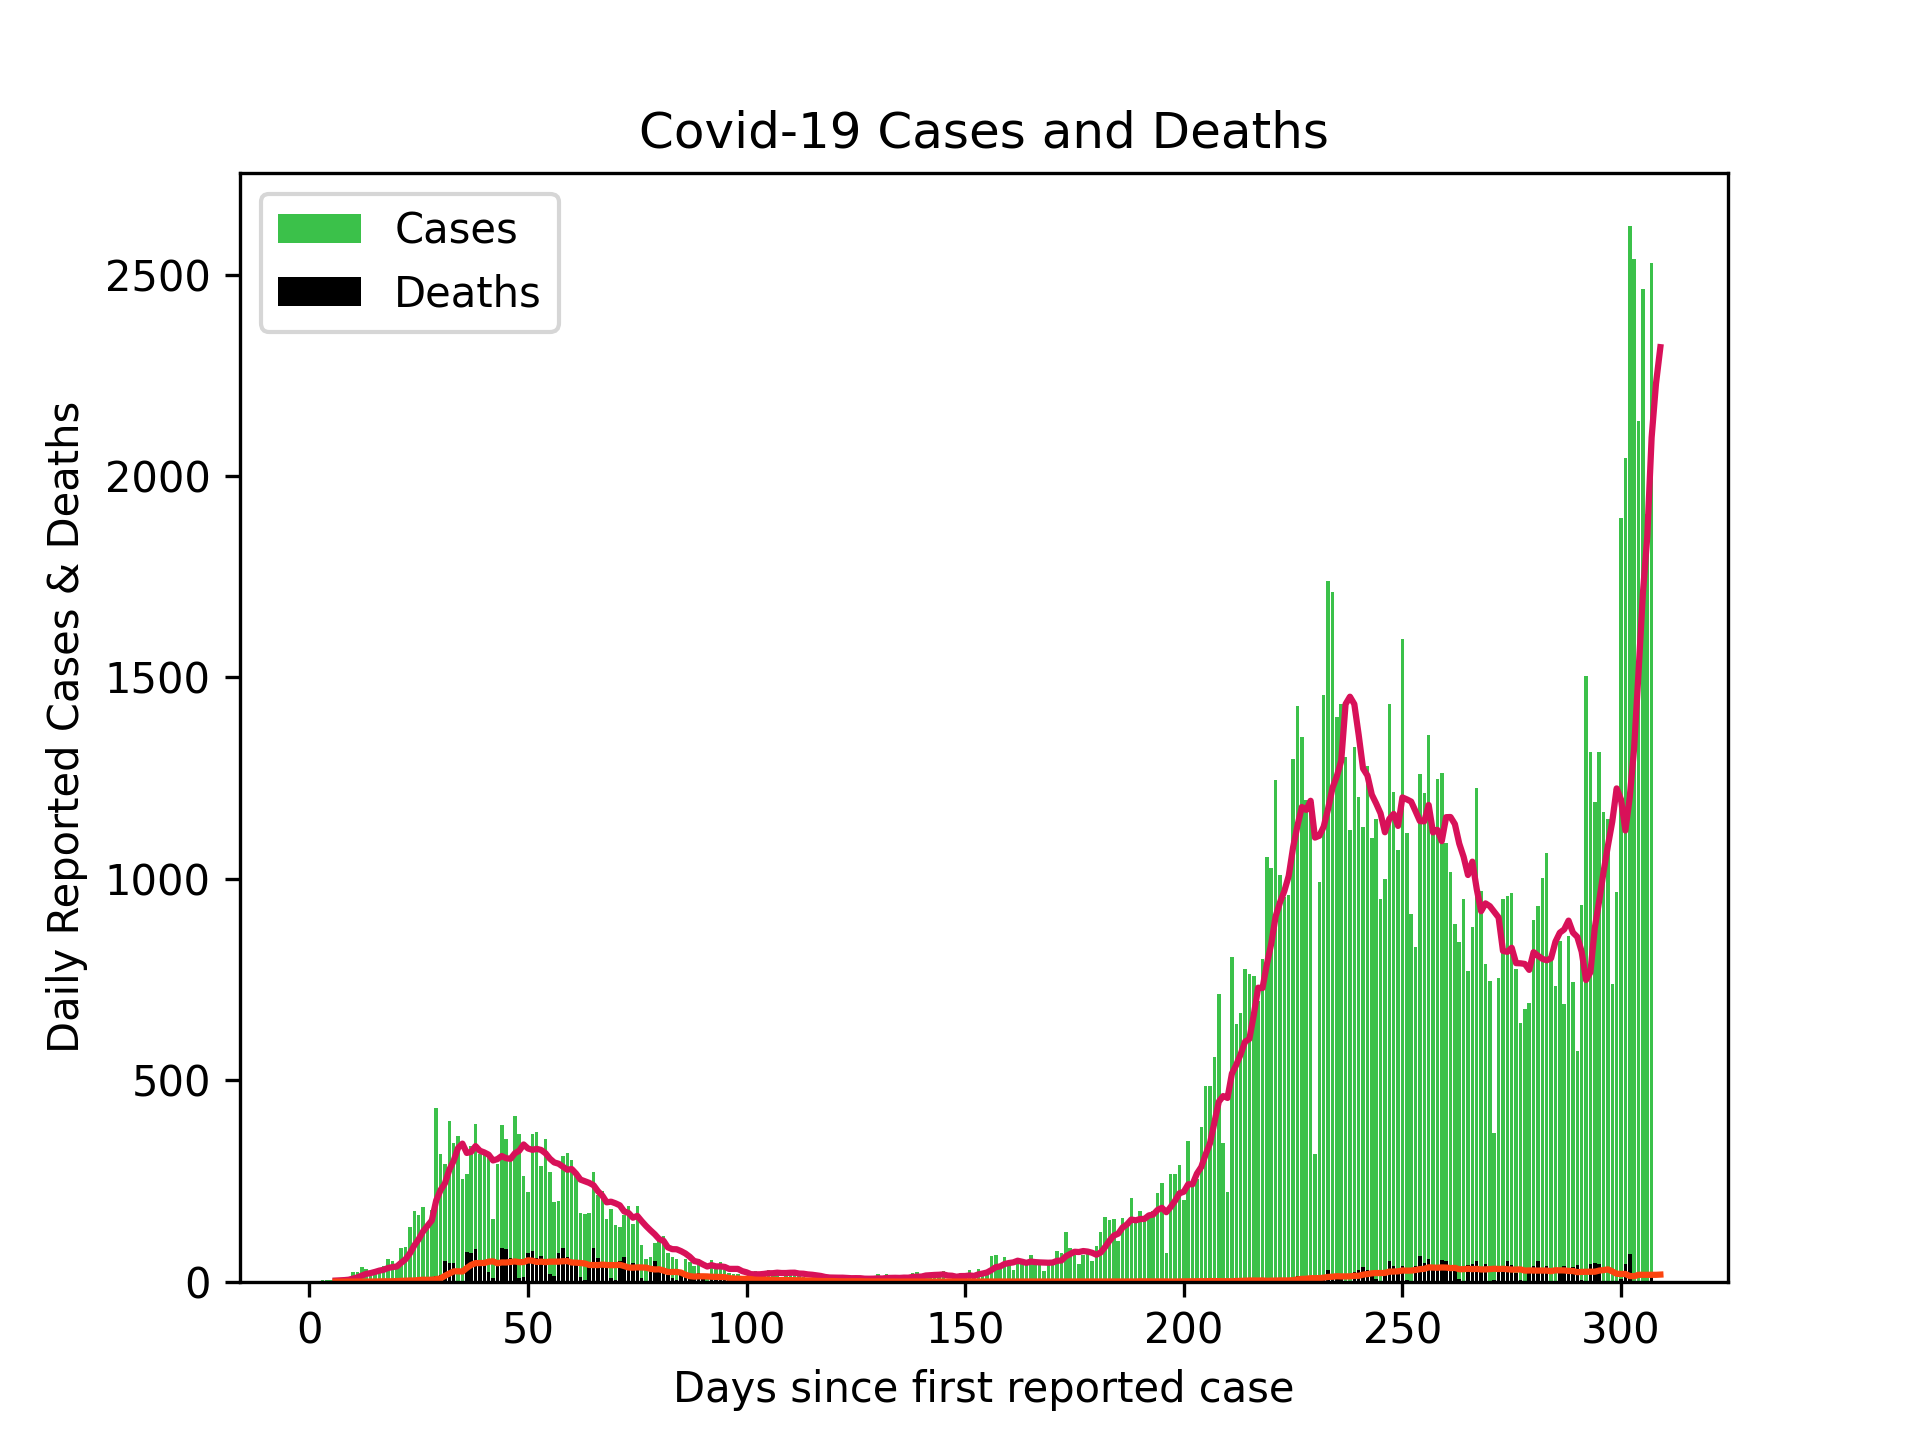
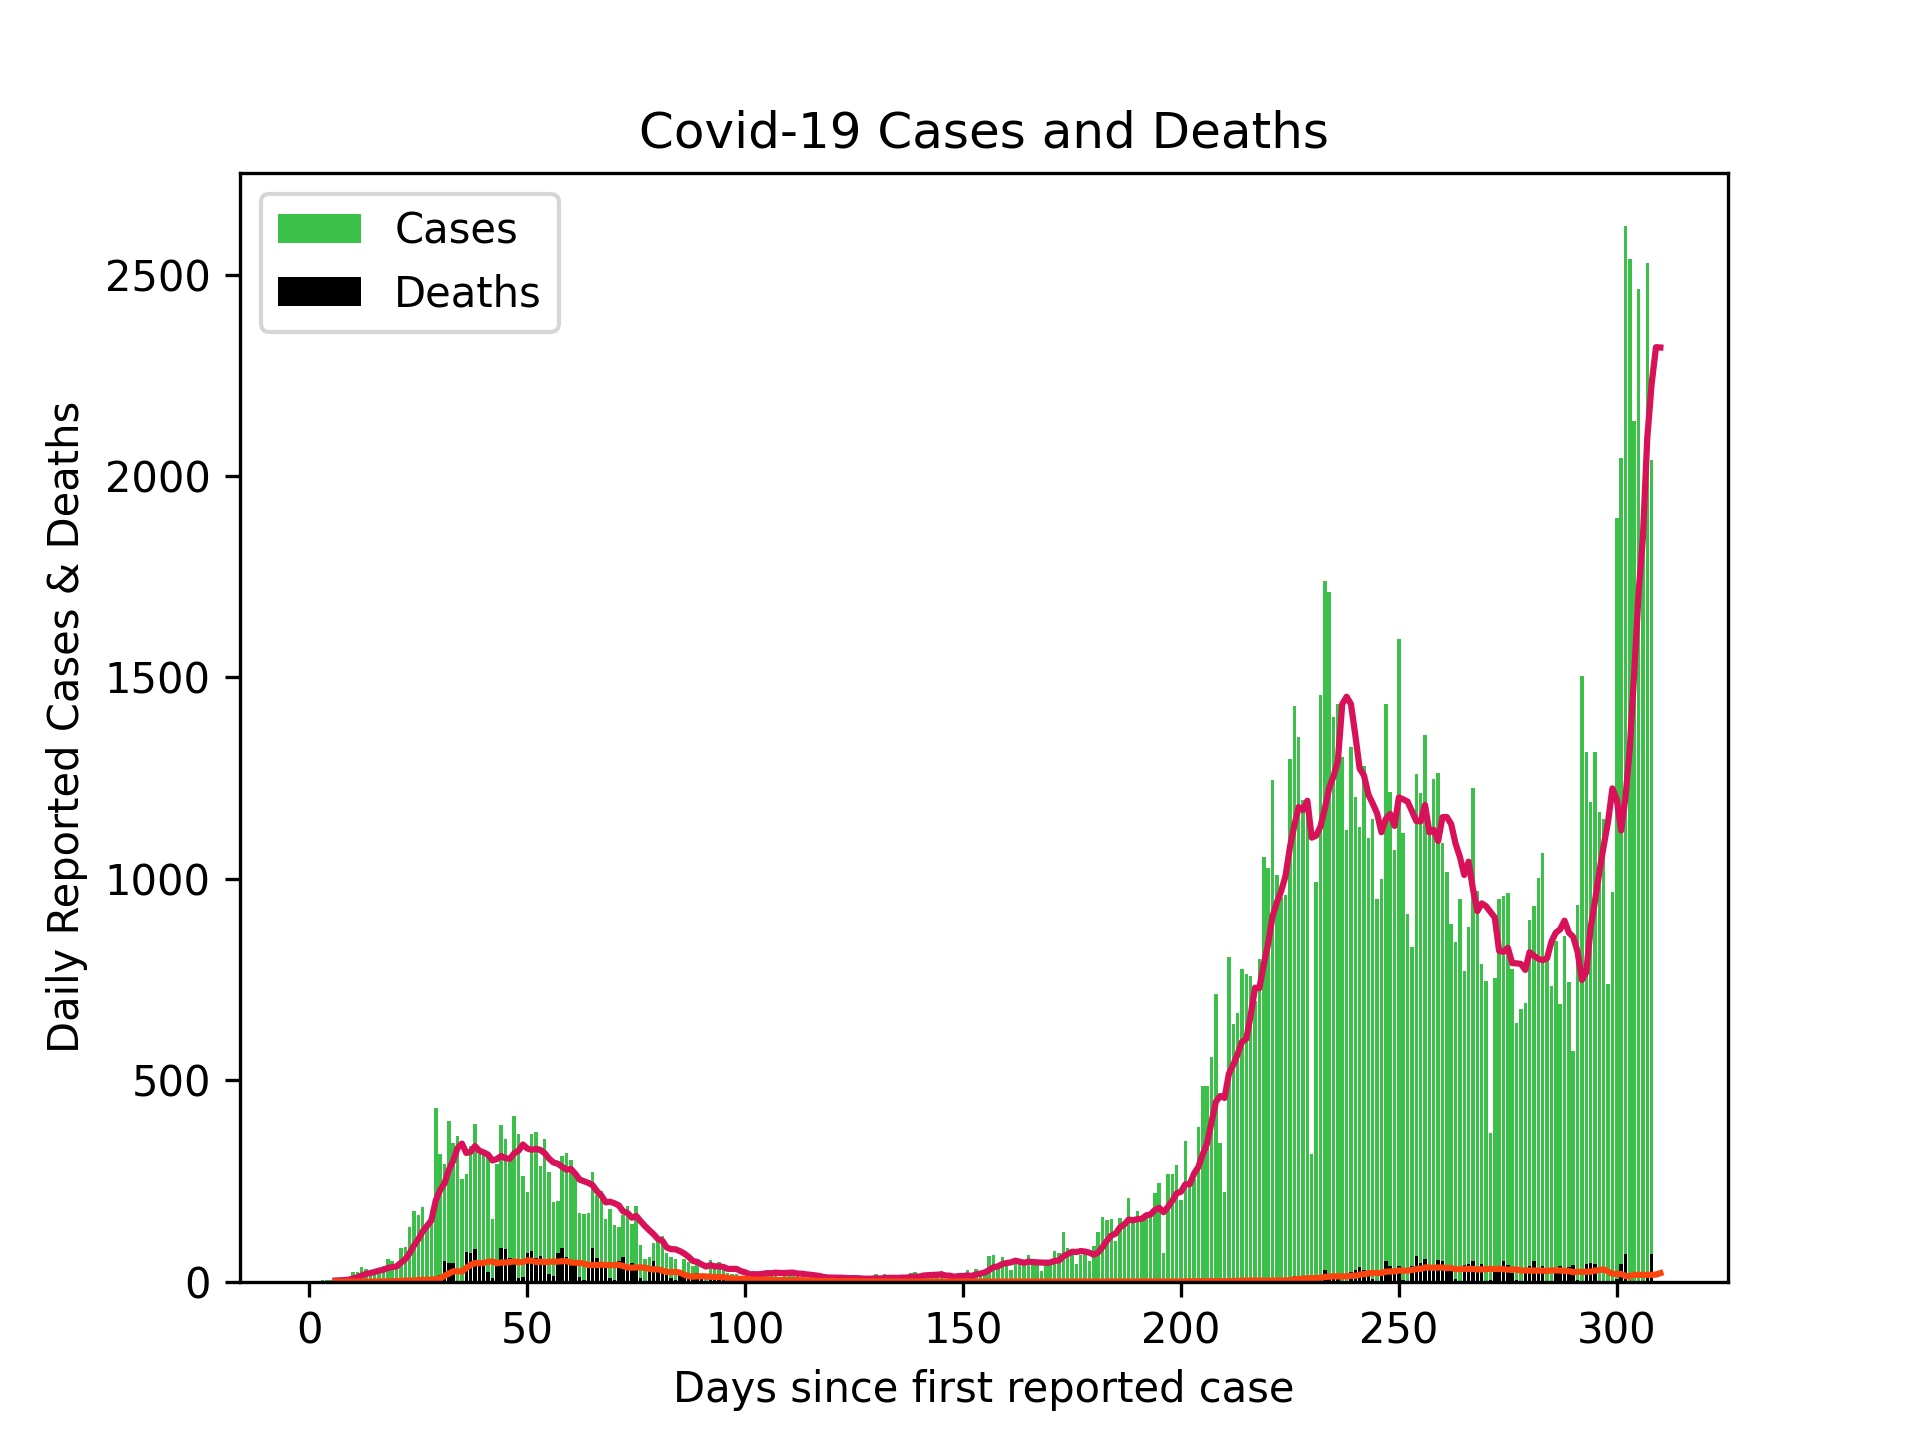
Updated Scottish cases 06/01/21

Changed region(s): [[0.4688, 0.1562, 0.875, 0.9375], [0.2188, 0.7812, 0.375, 0.9375], [0.375, 0.9062, 0.4062, 0.9375]]

diff --git a/README.md b/README.md
@@ -1,4 +1,4 @@
-# Scottish Cases 05/01/21
+# Scottish Cases 06/01/21
 
 ![alt](scottish_cases.png)
 
